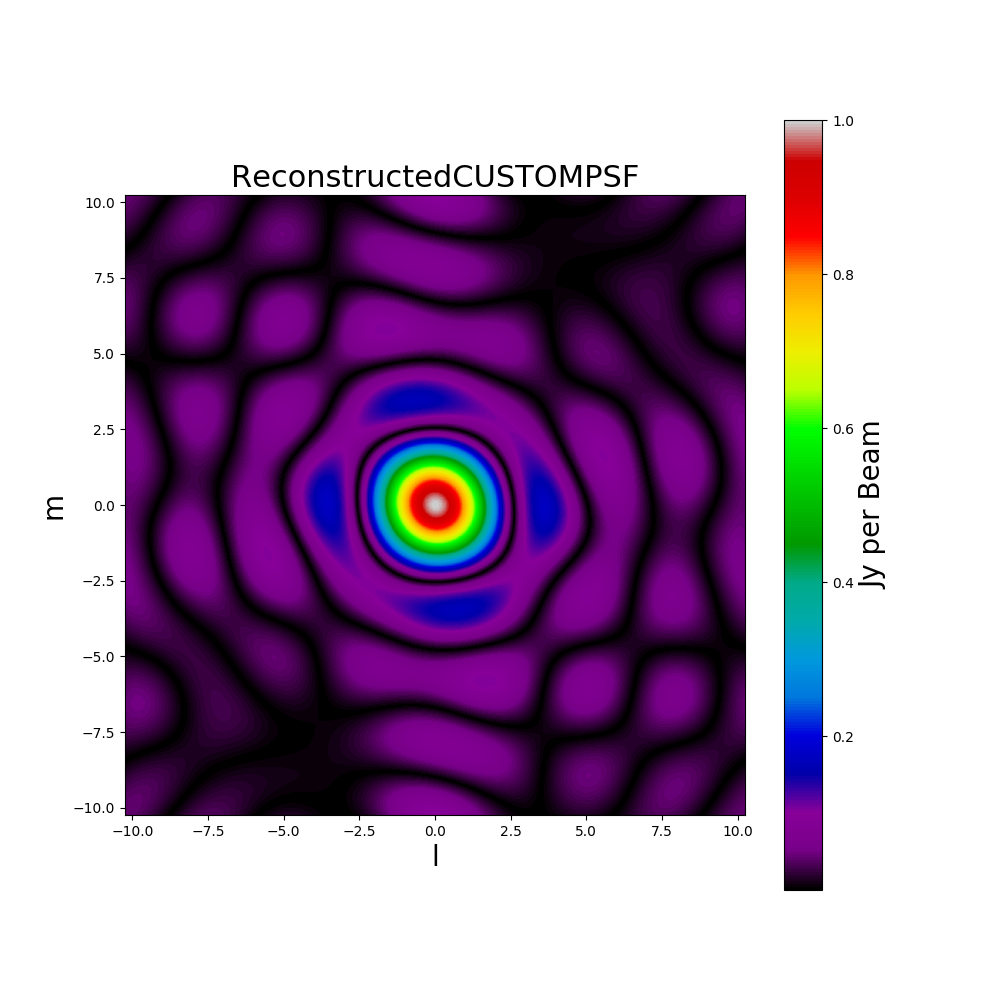
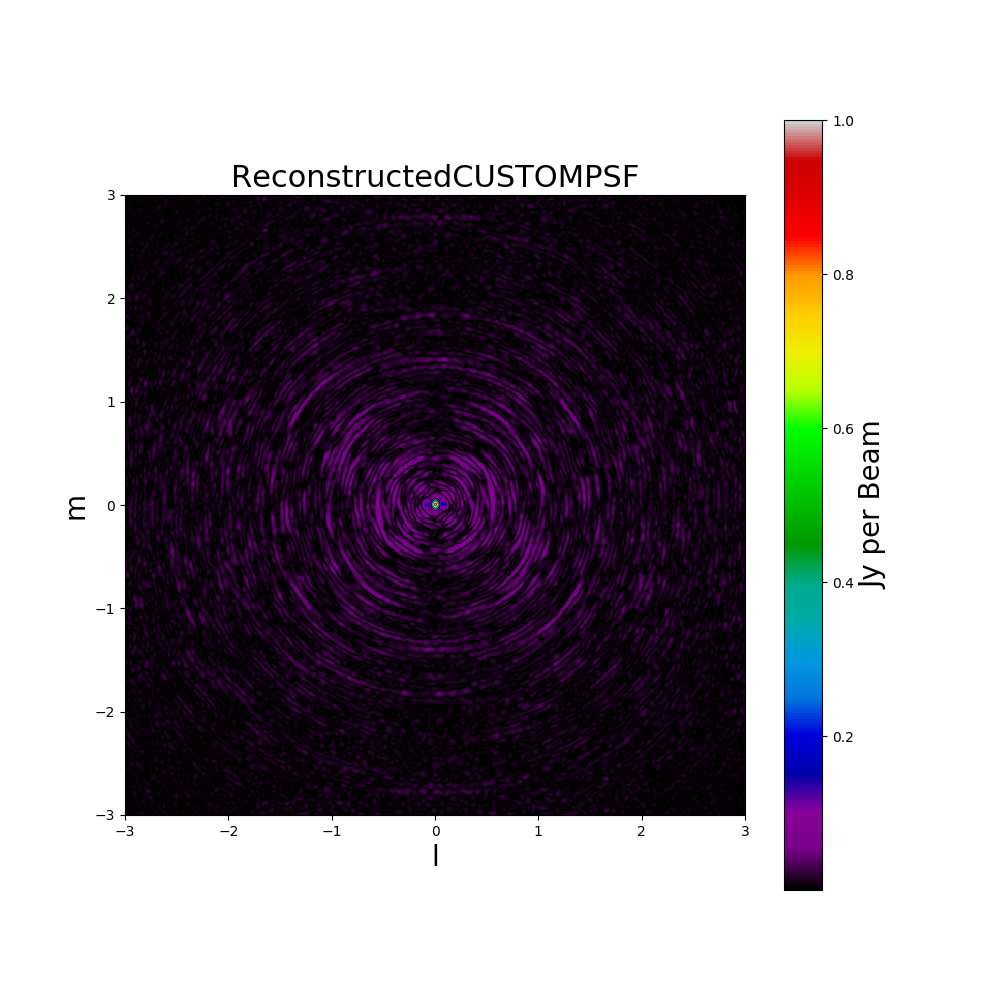
added harcoded res for TART and removed cos from index.html

Changed region(s): [[0.031, 0.186, 0.744, 0.837], [0.279, 0.806, 0.31, 0.837]]

diff --git a/html/index.html b/html/index.html
@@ -13,9 +13,9 @@
           cell_size = $("#cell_size").val()
           resolusion = $("#resolusion").val()
           loc = $("#loc").val()
-          cont = resolusion != "" && cell_size != "" && co != "" && loc != ""
+          cont = cell_size != "" && co != "" && loc != ""
           if (cont) {
-            $.post("/generate_graphs",{cos:co, cell_size:cell_size, res:resolusion, loc:loc})
+            $.post("/generate_graphs",{cell_size:cell_size, loc:loc})
              .done(function(string) {
                var unique = $.now();
                $('#antenna').attr('src', 'static/TARTAntennaLayout.png?' + unique);
@@ -35,12 +35,11 @@
       $(document).ready(function() {
         $("#generate_custom_graphs").click(function(e) {
           base = $("#baseline").val()
-          co = $("#cods").val()
           cell_size = $("#cell_size").val()
           resolusion = $("#resolusion").val()
-          cont = resolusion != "" && $("#input_file").val() != "" && $("#lsm_file").val() != "" && base != "" && cell_size != "" && co != ""
+          cont = resolusion != "" && $("#input_file").val() != "" && $("#lsm_file").val() != "" && base != "" && cell_size != ""
           if (cont) {
-            $.post("/generate_custom_graphs",{input_file:$("#input_file").val(), lsm_file:$("#lsm_file").val(), baseline:base, cos:co, cell_size:cell_size, res: resolusion})
+            $.post("/generate_custom_graphs",{input_file:$("#input_file").val(), lsm_file:$("#lsm_file").val(), baseline:base, cell_size:cell_size, res: resolusion})
              .done(function(string) {
                var unique = $.now();
                $('#c_antenna').attr('src', 'static/CustomAntennaLayout.png?' + unique);
@@ -123,10 +122,6 @@
   </div>
     <d class="col-sm-10">
       <h1>{{ target }}</h1>
-      <select id="cods">
-         <option value="1">l/m</option>
-         <option value="2">RA/DEC</option>\
-       </select>
       Baseline: <input type="text" name="baseline" id="baseline">
       Image Cell Size: <input type="text" name="cell_size" id="cell_size">
       Image Resolusion: <input type="text" name="resolusion" id="resolusion">

diff --git a/Utilities.py b/Utilities.py
@@ -127,7 +127,7 @@ def get_uv_and_tracks(b_ENU, L, f, h, dec, point_sources):
     uv = np.array(uv)
     return uv, u_d, v_d, uu, vv, uv_tracks
 
-def plot_visibilities(b_ENU, L, f, h0, h1, model_name, cos, layout):
+def plot_visibilities(b_ENU, L, f, h0, h1, model_name, layout):
     h = np.linspace(h0,h1,num=600)*np.pi/12
     model = Tigger.load(model_name)
 ############################################################
@@ -162,10 +162,7 @@ def plot_visibilities(b_ENU, L, f, h0, h1, model_name, cos, layout):
     dec = dec_0
     #################################################################################################
 
-    if cos == "1":
-        plot_sky_model(l*(180/np.pi), m*(180/np.pi), Flux_sources, "l [degrees]", "m [degrees]")
-    else:
-        plot_sky_model(RA_sources, DEC_sources, Flux_sources, "RA", "DEC")
+    plot_sky_model(l*(180/np.pi), m*(180/np.pi), Flux_sources, "l [degrees]", "m [degrees]")
 
     uv, u_d, v_d, uu, vv, uv_tracks = get_uv_and_tracks(b_ENU, L, f, h, dec, point_sources)
 
@@ -231,7 +228,7 @@ def plot_visibilities(b_ENU, L, f, h0, h1, model_name, cos, layout):
     return all_uv, all_uv_tracks, dec_0
 
 
-def image(uv, uv_tracks, cell_size, cos, dec_0, res, name):
+def image(uv, uv_tracks, cell_size, dec_0, res, name):
     c_s = float(cell_size)
     cell_size_l = c_s
     cell_size_m = c_s
@@ -255,27 +252,17 @@ def image(uv, uv_tracks, cell_size, cos, dec_0, res, name):
     # plt.xlabel("l", size=18)
     # plt.ylabel("m", size=18)
     plt.savefig('Plots/' + name + 'grid.png', transparent=True)
-    if cos == "1":
-        L = np.cos(dec_0) * np.sin(0)
-        M = np.sin(dec_0) * np.cos(dec_0) - np.cos(dec_0) * np.sin(dec_0) * np.cos(0)
-        image = image_visibilities(gridded)
-        psf = np.ones ((np.array(uv_tracks).shape), dtype=complex)
-        psf_grid, cell_size_error = grid(Nl, Nm, psf, cell_size_u, cell_size_v, uv, cell_size_l, cell_size_m)
-        psf_image = image_visibilities(psf_grid)
-        scale_factor = psf_image[int(psf_image.shape[0]/2)][int(psf_image.shape[1]/2)]
-        image /= scale_factor
-        psf_image /= scale_factor
-        draw_image(image, Nl, Nm, cell_size_l, cell_size_m, L, M, name+"SkyModel", "l", "m", cell_size_error)
-        draw_image(psf_image, Nl, Nm, cell_size_l, cell_size_m, L, M, name+"PSF", "l", "m", cell_size_error)
-
-    else:
-        # convert grid to RA/DEC
-        # dec = math.asin(m * np.cos(dec_0) + np.sin(dec_0) * math.sqrt(1 - l**2 - m**2))
-        # ra = ra_0 + np.atan(1 / (np.cos(dec_0) * math.sqrt(1 - l**2 - m**2) - m * np.sin(dec_0)))
-        image_visibilities(gridded, Nl, Nm, cell_size_l, cell_size_m, dec_0, ra_0, "SkyModel")
-        # psf = np.ones((Nl, Nm), dtype=complex)
-        # image_visibilities(psf, Nl, Nm, cell_size_l, cell_size_m, L, M, "PSF")
-
+    L = np.cos(dec_0) * np.sin(0)
+    M = np.sin(dec_0) * np.cos(dec_0) - np.cos(dec_0) * np.sin(dec_0) * np.cos(0)
+    image = image_visibilities(gridded)
+    psf = np.ones ((np.array(uv_tracks).shape), dtype=complex)
+    psf_grid, cell_size_error = grid(Nl, Nm, psf, cell_size_u, cell_size_v, uv, cell_size_l, cell_size_m)
+    psf_image = image_visibilities(psf_grid)
+    scale_factor = psf_image[int(psf_image.shape[0]/2)][int(psf_image.shape[1]/2)]
+    image /= scale_factor
+    psf_image /= scale_factor
+    draw_image(image, Nl, Nm, cell_size_l, cell_size_m, L, M, name+"SkyModel", "l", "m", cell_size_error)
+    draw_image(psf_image, Nl, Nm, cell_size_l, cell_size_m, L, M, name+"PSF", "l", "m", cell_size_error)
 
 def find_closest_power_of_two(number):
     s = 2

diff --git a/Pipeline.py b/Pipeline.py
@@ -41,9 +41,9 @@ class pipeline(object):
         return i+1,j
 
     @cherrypy.expose
-    def generate_custom_graphs(self, input_file=None, lsm_file=None, baseline=None, cos=None, cell_size=None, res=None):
+    def generate_custom_graphs(self, input_file=None, lsm_file=None, baseline=None, cell_size=None, res=None):
         upload_path = os.path.dirname(__file__)
-        if res is not "" and input_file is not "" and lsm_file is not "" and baseline is not "" and cos is not "" and cell_size is not "":
+        if res is not "" and input_file is not "" and lsm_file is not "" and baseline is not "" and cell_size is not "":
             bl = baseline.split(" ")
             bl_1 = int(bl[0]) - 1
             bl_2 = int(bl[1]) - 1
@@ -65,12 +65,12 @@ class pipeline(object):
             dec = json_antenna['center_dec']
             dec = dec[0] + dec[1]/60. + dec[2]/3600.
             ut.plot_baseline(b, custom_L, custom_f, sha, eha, dec, "CUSTOM")
-            uv, uv_tracks, dec_0 = ut.plot_visibilities(b, custom_L, custom_f, sha, eha, "Sky_Models/" + lsm_file, cos, custom_layout)
-            ut.image(uv, uv_tracks, cell_size, cos, dec_0, res, "CUSTOM")
+            uv, uv_tracks, dec_0 = ut.plot_visibilities(b, custom_L, custom_f, sha, eha, "Sky_Models/" + lsm_file, custom_layout)
+            ut.image(uv, uv_tracks, cell_size, dec_0, res, "CUSTOM")
 
     @cherrypy.expose
-    def generate_graphs(self, cos=None, cell_size=None, res=None, loc=None):
-        if res is not "" and cos is not "" and cell_size is not "" and loc is not "":
+    def generate_graphs(self, cell_size=None, loc=None):
+        if cell_size is not "" and loc is not "":
             layout = self.get_antenna_layout(loc)
             L,f = TR.get_latitude_and_frequency(loc)
             visibilities = self.make_vis_matrix(loc)
@@ -97,7 +97,8 @@ class pipeline(object):
                     all_uv.append(uv)
                     uv_tracks = [visibilities[j][i]]
                     all_uv_tracks.append(uv_tracks)
-            ut.image(all_uv, all_uv_tracks, cell_size, cos, 0, res, "TART")
+            res = 2 * 180/np.pi
+            ut.image(all_uv, all_uv_tracks, cell_size   , 0, res, "TART")
 
 
 
